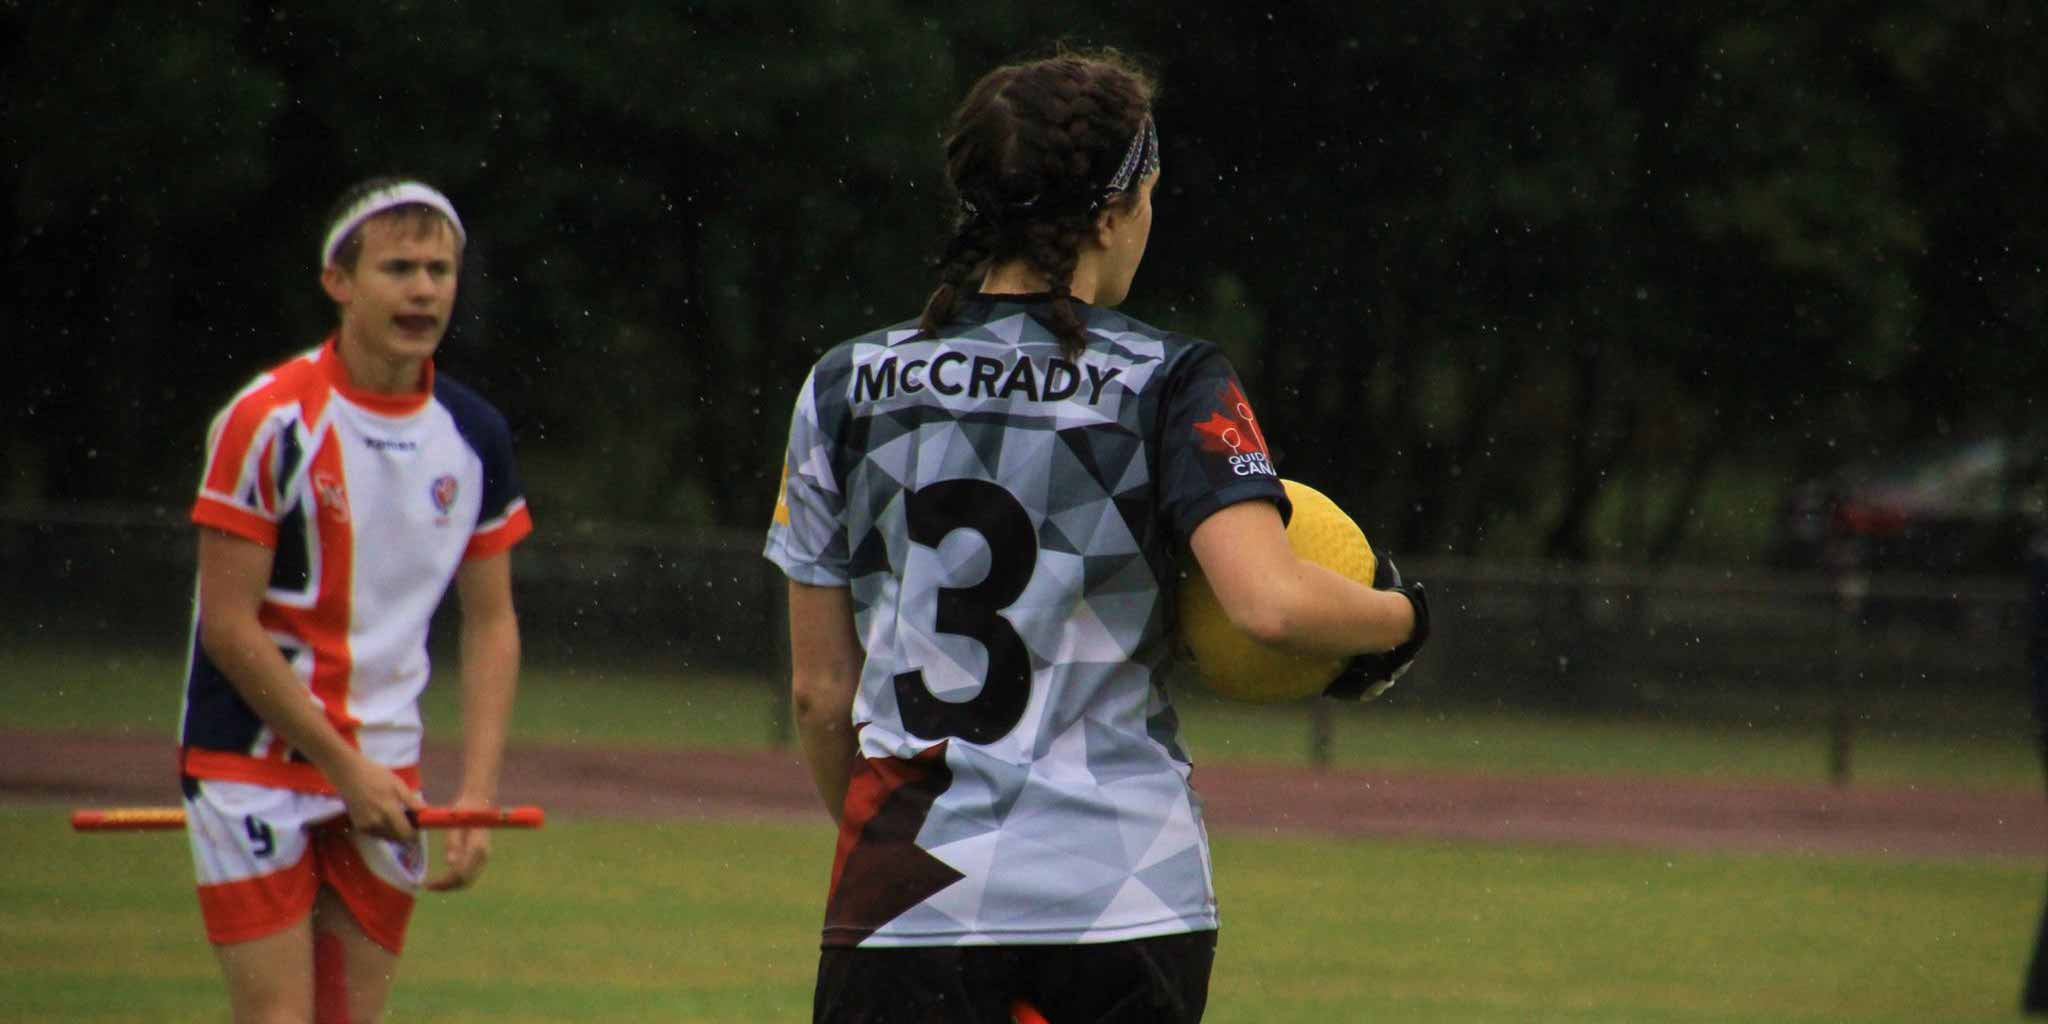
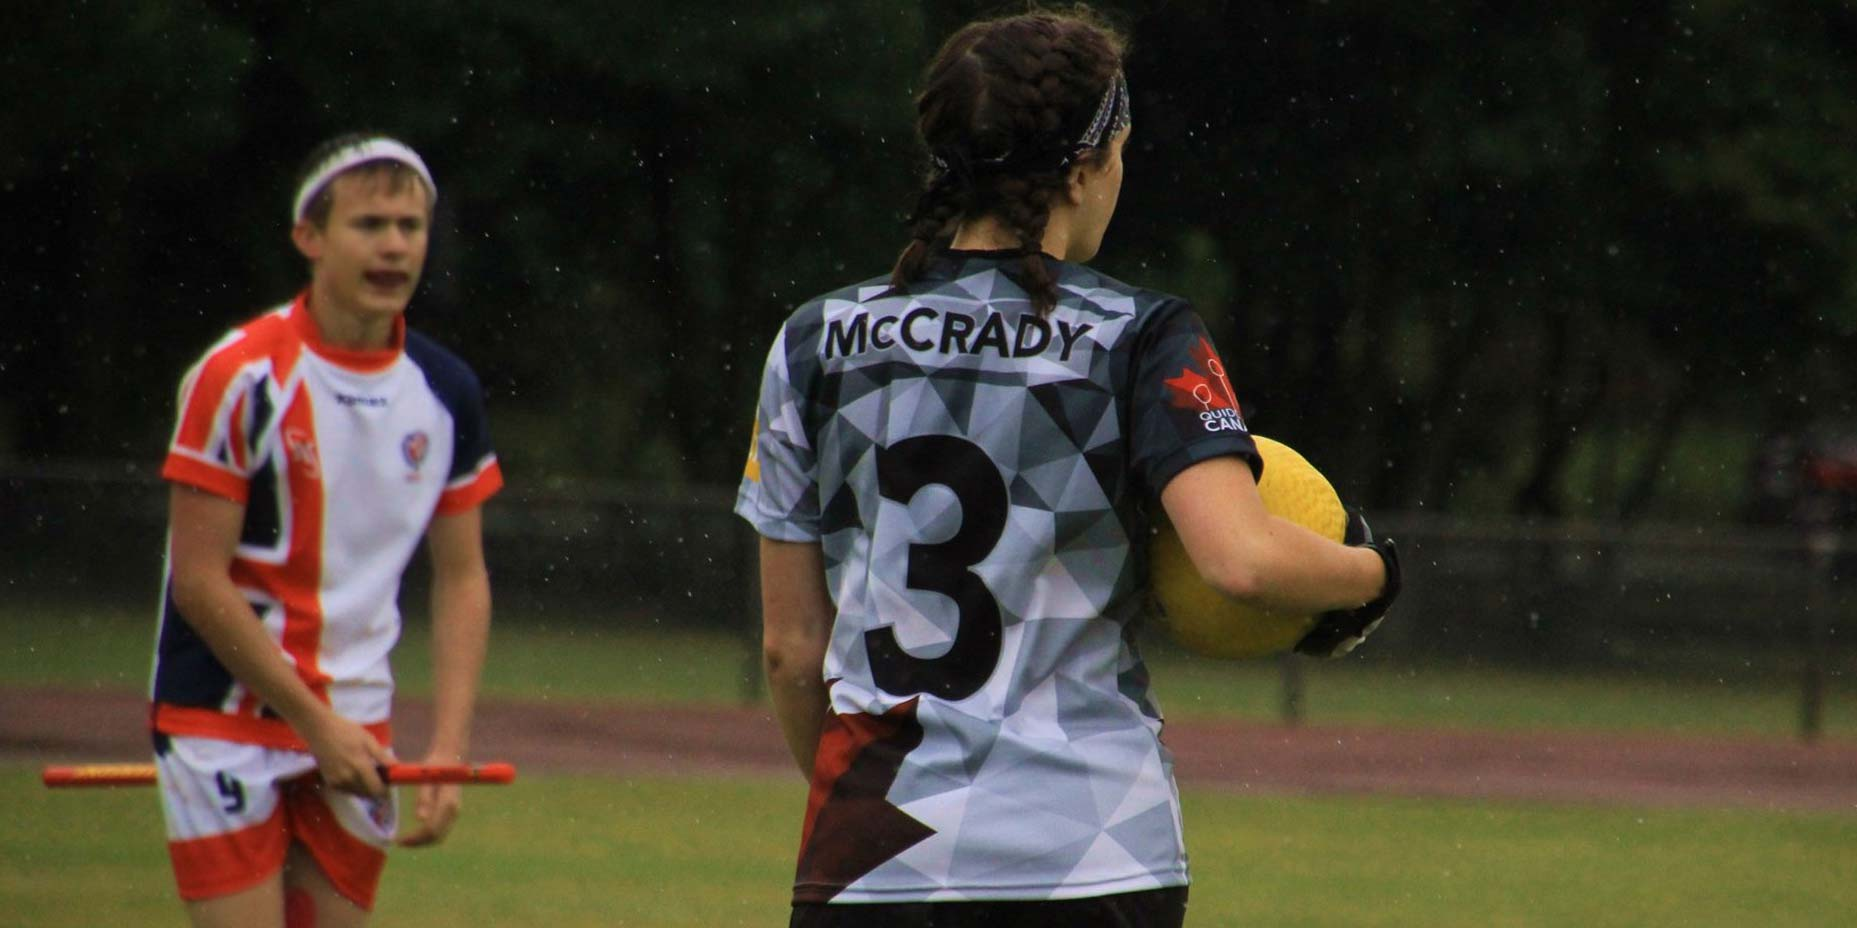
Scroll Edition
- Added New portfolio pieces
- Slight Less Sport focus
- Added smooth scroll
- Added fading back to top

diff --git a/index.html b/index.html
@@ -11,7 +11,7 @@
   <link href="css/type.css" rel="stylesheet">
   <link href="css/main.css" rel="stylesheet">
 </head>
-<body class="">
+<body id="top" class="">
   <header class="masthead">
     <div class="wrapper grid grid-middle island">
       <div class="unit xs-3-4 s-3-4 m-2-3 l-2-3">
@@ -23,8 +23,8 @@
       </div>
       <nav class="unit unit-xs-hidden unit-s-hidden m-1-3 l-1-3">
         <ul class="nav list-group grid text-right">
-          <li class="unit xs-1-2 s-1-2 m-1-2 l-1-2"><a class="text-lg pad-t-1-4 pad-b-1-4 hov-highlight under-red" href="portfolio/">Portfolio</a></li>
-          <li class="unit xs-1-2 s-1-2 m-1-2 l-1-2"><a class="text-lg pad-t-1-4 pad-b-1-4 hov-highlight under-red" href="bio.html">Bio</a></li>
+          <li class="unit xs-1-2 s-1-2 m-1-2 l-1-2"><a class="text-lg pad-t-1-4 pad-b-1-4 hov-highlight under-red" href="#contact">Contact</a></li>
+          <li class="unit xs-1-2 s-1-2 m-1-2 l-1-2"><a class="text-lg pad-t-1-4 pad-b-1-4 hov-highlight under-red" href="#portfolio">Portfolio</a></li>
         </ul>
       </nav>
       <div class="unit xs-1-4 s-1-4 unit-m-hidden unit-l-hidden">
@@ -36,9 +36,9 @@
         <label class="lbl-over" for="nav-check"></label>
         <nav class="nav-slide shadow">
           <ul class="nav list-group island">
-            <li class="push"><a class="block text-lg pad-t-1-4 pad-b-1-4 no-under" href="index.html"><span class="hov-highlight current">Home</span></a></li>
-            <li class="push"><a class="block text-lg pad-t-1-4 pad-b-1-4 no-under" href="portfolio/"><span class="hov-highlight">Portfolio</span></a></li>
-            <li class="push"><a class="block text-lg pad-t-1-4 pad-b-1-4 no-under" href="bio.html"><span class="hov-highlight">Bio</span></a></li>
+            <li class="push"><a class="block text-lg pad-t-1-4 pad-b-1-4 no-under" href="#top"><span class="hov-highlight">Top</span></a></li>
+            <li class="push"><a class="block text-lg pad-t-1-4 pad-b-1-4 no-under" href="#contact"><span class="hov-highlight">Contact</span></a></li>
+            <li class="push"><a class="block text-lg pad-t-1-4 pad-b-1-4 no-under" href="#portfolio"><span class="hov-highlight">Portfolio</span></a></li>
           </ul>
         </nav>
       </div>
@@ -53,85 +53,85 @@
         <div class="banner-text wrapper island">
           <h2 class="yotta text-shadow">Look the best.<br>Be the best.</h2>
           <p class="tera dosis text-shadow">Custom jersey and logo design from<br>an experienced sports designer.</p>
-          <a class="btn btn-ban text-dg dosis mega" href="portfolio.html#jersey">Learn More</a>
+          <a class="btn btn-ban text-dg dosis mega" href="#portfolio">Learn More</a>
         </div>
       </div>
     </div>
-    <section class="welcome island bg-blue text-center">
+    <section id="contact" class="island bg-blue text-center">
       <h2 class="push pad-t text-lg normal">Welcome to robillard<span class="zetta">.</span><span class="bold">design</span></h2>
-      <p class="max-length pad-b-1-2 text-lg dosis">My name is Adam Robillard. I am a designer from Ottawa, Canada specializing in web, UX/UI, and branding for sports teams. My love of design grew from my love of sports, beginning with designing my own amateur sports logos and uniforms. It has since grown to a serious passion and I would love to share it with your team.</p>
+      <p class="max-length pad-b-1-2 text-lg dosis">My name is Adam Robillard. I am a designer from Ottawa, Canada specializing in web, UX/UI, and branding. My love of design grew from my love of sports, beginning with designing my own amateur sports logos and uniforms. It has since grown to a serious passion and I would love to share it with you.</p>
       <a class="btn btn-welcome dosis push-2 text-blue" href="mailto:robi0653@algonquinlive.com">Let's work together</a>
     </section>
-    <div class="wrapper island-1-2">
+    <div id="portfolio" class="wrapper island-1-2">
       <div class="grid text-center dosis">
-        <div class="island-1-2 prev-hov unit xs-1 s-1-2 m-1-2 l-1-3">
-          <a class="text-dg no-under" href="portfolio/index.html#jersey">
-            <figure class="move-left push-0 relative">
+        <div class="island-1-2 prev-hov unit xs-1 s-1-2 m-1-3 l-1-3">
+          <a class="text-dg no-under" href="#">
+            <figure class="push-0 relative">
               <div class="embed embed-1by1">
-                <img class="embed-item" src="images/tc-steckle-sq.jpg" alt="">
+                <img class="embed-item" src="images/humane-sq.jpg" alt="">
               </div>
-              <figcaption class="island-1-4 absolute pin-c w-1 h-1 bg-red-75">
-                <p class="push-0 pad-b-1-4 pad-t-1-4 absolute pin-c bold tera text-lg">Quidditch Canada 2016</p>
+              <figcaption class="fade fig-transition island-1-4 absolute pin-c w-1 h-1 bg-red-75">
+                <p class="push-0 pad-b-1-4 pad-t-1-4 absolute pin-c bold mega text-lg">Humane Society Newsletter</p>
               </figcaption>
             </figure>
           </a>
         </div>
-        <div class="island-1-2 prev-hov unit xs-1 s-1-2 m-1-2 l-1-3">
-          <a class="text-dg no-under" href="portfolio/index.html#symbol">
-            <figure class="move-up push-0 relative">
+        <div class="island-1-2 prev-hov unit xs-1 s-1-2 m-1-3 l-1-3">
+          <a class="text-dg no-under" href="#">
+            <figure class="push-0 relative">
               <div class="embed embed-1by1">
                 <img class="embed-item" src="images/cujo.svg" alt="">
               </div>
-              <figcaption class="island-1-4 absolute pin-c w-1 h-1 bg-blue-75">
-                <p class="push-0 pad-b-1-4 pad-t-1-4 absolute pin-c bold tera text-lg">Cujo<br>Logo Project</p>
+              <figcaption class="fade fig-transition island-1-4 absolute pin-c w-1 h-1 bg-blue-75">
+                <p class="push-0 pad-b-1-4 pad-t-1-4 absolute pin-c bold mega text-lg">Cujo<br>Logo Project</p>
               </figcaption>
             </figure>
           </a>
         </div>
-        <div class="island-1-2 prev-hov unit xs-1 s-1-2 m-1-2 l-1-3">
-          <a class="text-dg no-under" href="portfolio/index.html#osba">
-            <figure class="move-right push-0 relative">
+        <div class="island-1-2 prev-hov unit xs-1 s-1-2 m-1-3 l-1-3">
+          <a class="text-dg no-under" href="#">
+            <figure class="push-0 relative">
               <div class="embed embed-1by1">
-                <img class="embed-item" src="images/osba.svg" alt="">
+                <img class="embed-item" src="images/tc-steckle-sq.jpg" alt="">
               </div>
-              <figcaption class="island-1-4 absolute pin-c w-1 h-1 bg-red-75">
-                <p class="push-0 pad-b-1-4 pad-t-1-4 absolute pin-c bold tera text-lg">OSBA<br>Logo</p>
+              <figcaption class="fade fig-transition island-1-4 absolute pin-c w-1 h-1 bg-red-75">
+                <p class="push-0 pad-b-1-4 pad-t-1-4 absolute pin-c bold mega text-lg">Quidditch Canada 2016</p>
               </figcaption>
             </figure>
           </a>
         </div>
-        <div class="island-1-2 prev-hov unit xs-1 s-1-2 m-1-2 l-1-3">
-          <a class="text-dg no-under" href="portfolio/index.html#osba">
+        <div class="island-1-2 prev-hov unit xs-1 s-1-2 m-1-3 l-1-3">
+          <a class="text-dg no-under" href="#">
             <figure class="push-0 relative">
               <div class="embed embed-1by1">
                 <img class="embed-item" src="images/ns-cayden-sq.jpg" alt="">
               </div>
-              <figcaption class="fade island-1-4 absolute pin-c w-1 h-1 bg-blue-75">
-                <p class="push-0 pad-b-1-4 pad-t-1-4 absolute pin-c bold tera text-lg">North Star Quidditch</p>
+              <figcaption class="fade fig-transition island-1-4 absolute pin-c w-1 h-1 bg-blue-75">
+                <p class="push-0 pad-b-1-4 pad-t-1-4 absolute pin-c bold mega text-lg">North Star Quidditch</p>
               </figcaption>
             </figure>
           </a>
         </div>
-        <div class="island-1-2 prev-hov unit xs-1 s-1-2 m-1-2 l-1-3">
-          <a class="text-dg no-under" href="portfolio/index.html#jersey">
+        <div class="island-1-2 prev-hov unit xs-1 s-1-2 m-1-3 l-1-3">
+          <a class="text-dg no-under" href="#">
             <figure class="push-0 relative">
               <div class="embed embed-1by1">
-                <img class="embed-item" src="images/tc-steckle-sq.jpg" alt="">
+                <img class="embed-item" src="images/osba-flag.svg" alt="">
               </div>
-              <figcaption class="fade island-1-4 absolute pin-c w-1 h-1 bg-red-75">
-                <p class="push-0 pad-b-1-4 pad-t-1-4 absolute pin-c bold tera text-lg">Quidditch Canada 2016</p>
+              <figcaption class="fade fig-transition island-1-4 absolute pin-c w-1 h-1 bg-red-75">
+                <p class="push-0 pad-b-1-4 pad-t-1-4 absolute pin-c bold mega text-lg">OSBA<br>Logo</p>
               </figcaption>
             </figure>
           </a>
         </div>
-        <div class="island-1-2 prev-hov unit xs-1 s-1-2 m-1-2 l-1-3">
-          <a class="text-dg no-under" href="portfolio/index.html#symbol">
+        <div class="island-1-2 prev-hov unit xs-1 s-1-2 m-1-3 l-1-3">
+          <a class="text-dg no-under" href="#">
             <figure class="push-0 relative">
               <div class="embed embed-1by1">
-                <img class="embed-item" src="images/cujo.svg" alt="">
+                <img class="embed-item" src="images/info-doc.jpg" alt="">
               </div>
-              <figcaption class="fade island-1-4 absolute pin-c w-1 h-1 bg-blue-75">
-                <p class="push-0 pad-b-1-4 pad-t-1-4 absolute pin-c bold tera text-lg">Cujo<br>Logo Project</p>
+              <figcaption class="fade fig-transition island-1-4 absolute pin-c w-1 h-1 bg-blue-75">
+                <p class="push-0 pad-b-1-4 pad-t-1-4 absolute pin-c bold mega text-lg">Information Document</p>
               </figcaption>
             </figure>
           </a>
@@ -150,19 +150,13 @@
       <div class="micro unit xs-1 s-1 m-1-4 l-1-4 island">
         <nav>
           <ul class="nav-foot list-group grid">
-            <li class="unit xs-1-3 s-1-3 m-1-3 l-1-3">
-              <a class="icon-link hov-highlight pad-t-1-4 pad-b-1-2" href="#">
-                <i class="icon i-24 i-f-book"></i>
-                <span class="icon-label hidden">Facebook</span>
-              </a>
-            </li>
-            <li class="unit xs-1-3 s-1-3 m-1-3 l-1-3">
+            <li class="unit xs-1-2 s-1-2 m-1-2 l-1-2">
               <a class="icon-link hov-highlight pad-t-1-4 pad-b-1-2" href="https://www.instagram.com/robillard.design/" target="_blank">
                 <i class="icon i-24 i-i-gram"></i>
                 <span class="icon-label hidden">Instagram</span>
               </a>
             </li>
-            <li class="unit xs-1-3 s-1-3 m-1-3 l-1-3">
+            <li class="unit xs-1-2 s-1-2 m-1-2 l-1-2">
               <a class="icon-link hov-highlight pad-t-1-4 pad-b-1-2" href="https://www.linkedin.com/in/adam-robillard/" target="_blank">
                 <i class="icon i-24 i-link"></i>
                 <span class="icon-label hidden">LinkedIn</span>
@@ -176,5 +170,55 @@
       </div>
     </div>
   </footer>
+  <a class="to-top dosis island-1-2" href="#">
+    <img class="top-arrow" src="images/top-arrow.svg" alt="">
+      <!-- <p class="push-0">to top</p> -->
+  </a>
 </body>
+<script src="https://ajax.googleapis.com/ajax/libs/jquery/3.1.1/jquery.min.js"></script>
+<script>
+$(document).ready(function(){
+  // Add smooth scrolling to all links
+  $("a").on('click', function(event) {
+
+    // Make sure this.hash has a value before overriding default behavior
+    if (this.hash !== "") {
+      // Prevent default anchor click behavior
+      event.preventDefault();
+
+      // Store hash
+      var hash = this.hash;
+
+      // Using jQuery's animate() method to add smooth page scroll
+      // The optional number (800) specifies the number of milliseconds it takes to scroll to the specified area
+      $('html, body').animate({
+        scrollTop: $(hash).offset().top
+      }, 800, function(){
+
+        // Add hash (#) to URL when done scrolling (default click behavior)
+        window.location.hash = hash;
+      });
+    } // End if
+  });
+});
+
+$(document).ready(function(){
+
+	//Check to see if the window is top if not then display button
+	$(window).scroll(function(){
+		if ($(this).scrollTop() > 100) {
+			$('.to-top').fadeIn();
+		} else {
+			$('.to-top').fadeOut();
+		}
+	});
+
+	//Click event to scroll to top
+	$('.to-top').click(function(){
+		$('html, body').animate({scrollTop : 0},800);
+		return false;
+	});
+
+});
+</script>
 </html>

diff --git a/css/main.css b/css/main.css
@@ -45,7 +45,7 @@ h1 {
 }
 
 .text-red {
-  background-color: #933;
+  color: #933;
 }
 
 .bg-dg {
@@ -54,6 +54,14 @@ h1 {
 
 .border-mg {
   border-color: #aaa;
+}
+
+.bor-b-2-lg {
+  border-bottom: 2px solid #ddd;
+}
+
+.w-1-3 {
+  width: 33.3333%;
 }
 
 .grayscale {
@@ -275,14 +283,14 @@ main {
   overflow: hidden;
 }
 
-.prev-hov figcaption {
+.fig-transition {
   transition: opacity 1s, left 1.5s, top 1.5s;
 }
 
 .fade:hover {
   opacity: 0;
 }
-
+/*
 .move-left:hover figcaption {
   left: -20rem;
 }
@@ -297,10 +305,10 @@ main {
 
 .move-down:hover figcaption {
   top: 30rem;
-}
+}*/
 
 .prev-hov p {
-  border-bottom: 2px solid #ddd;
+  /*border-bottom: 2px solid #ddd;*/
   transition: border-color 1s;
   display: inline-block;
 }
@@ -360,6 +368,30 @@ main {
 
 .embed-2by1 {
   padding-top: 50%;
+}
+
+.btn-port {
+  background-color: #ddd;
+  border-color: #ddd;
+}
+
+.btn-port:hover {
+  background-color: transparent;
+  border-color: #ddd;
+}
+
+.btn-port:active {
+  background-color: transparent;
+  border-color: #ddd;
+}
+
+.btn-port:focus {
+  background-color: transparent;
+  border-color: #ddd;
+}
+
+.port-prev {
+  background-color: #933;
 }
 
 /* ----- =Bio ----- */
@@ -465,4 +497,26 @@ main {
     margin-top: -5rem;
   }
 
+}
+
+.to-top {
+	text-align: center;
+	font-weight: bold;
+	color: #333;
+	text-decoration: none;
+	position: fixed;
+	top: 2rem;
+	right: 2rem;
+	display: none;
+  opacity: .5;
+  transition: opacity 1s, background-color 1s;
+  border-radius: 8px;
+}
+.to-top:hover {
+  opacity: 1;
+  /*background-color: #ddd;*/
+}
+
+.top-arrow {
+  width: 2rem;
 }

diff --git a/portfolio/quidditch-canada-2016.html b/portfolio/quidditch-canada-2016.html
@@ -45,15 +45,10 @@
       </div>
     </div>
   </header>
-  <main class="wrapper island-1-2">
-    <div class="grid">
-      <div class="unit xs-1 s-1 m-1 l-1">
-        <figure class="grid">
-          <div class="embed embed-2by1">
-            <img class="embed-item" src="../images/tc-mccrady.jpg" alt="">
-          </div>
-        </figure>
-      </div>
+  <main class="">
+    <img class="img-flex" src="../images/tc-mccrady.jpg" alt="Team Canada player Erin McCrady wearing the jersey designed by robillard.design.">
+    <div class="grid wrapper island-1-2">
+
     </div>
   </main>
   <footer class="footer text-lg island">
